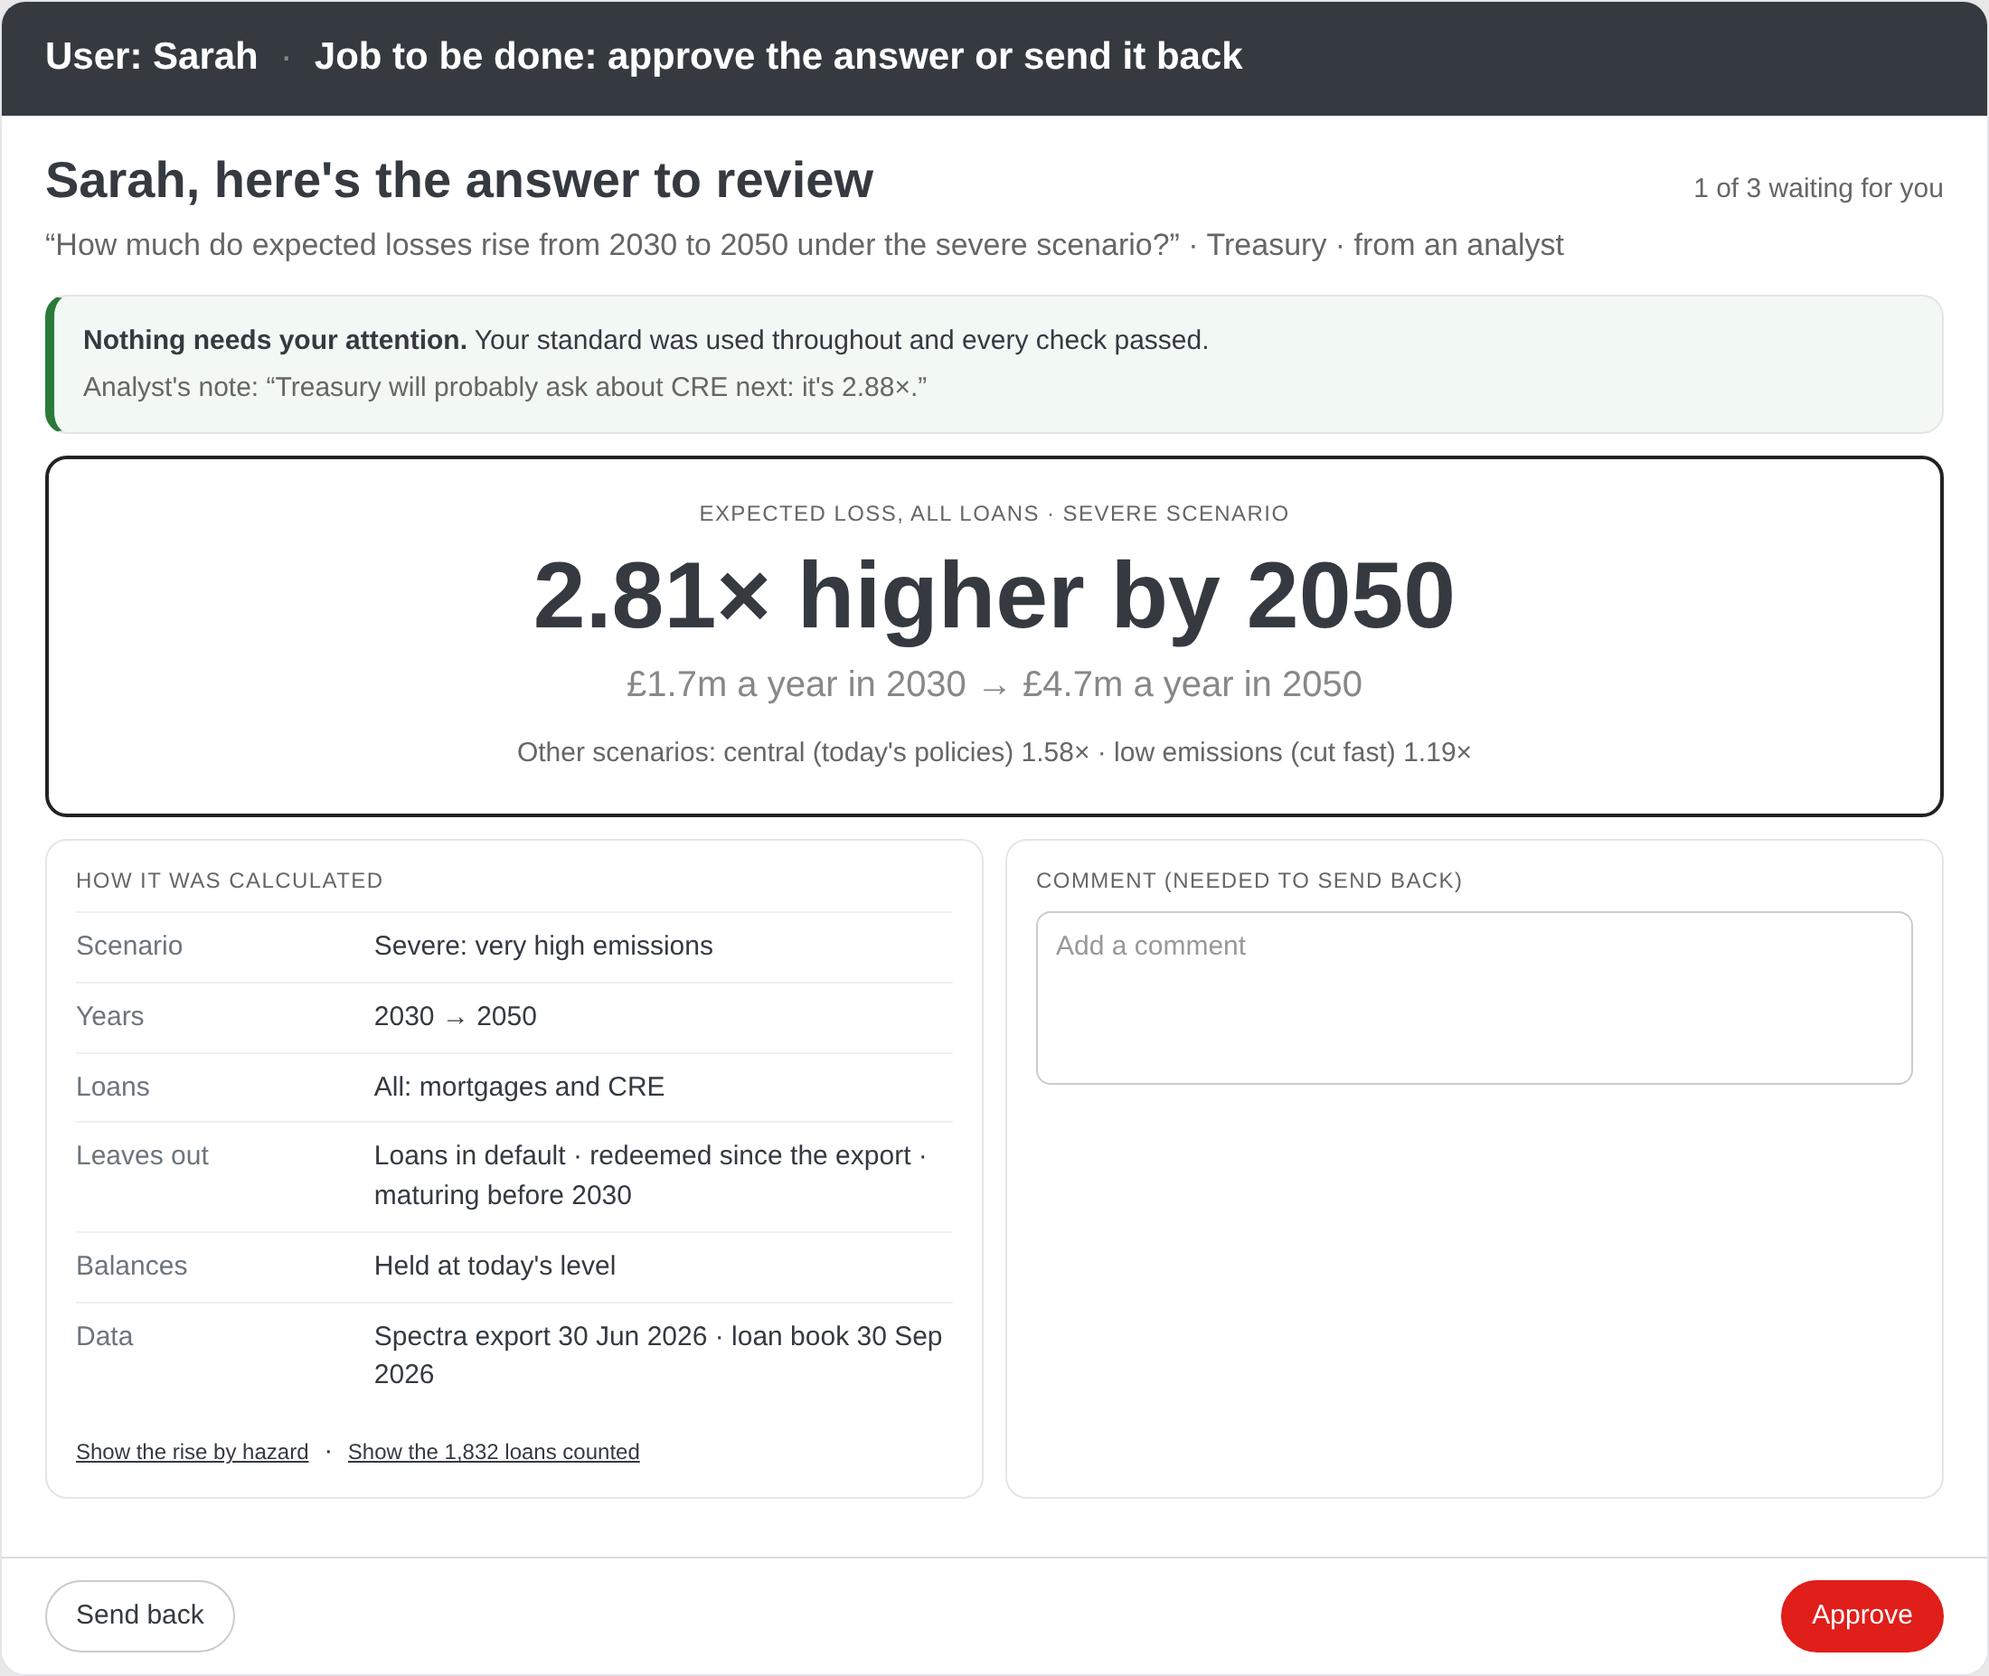
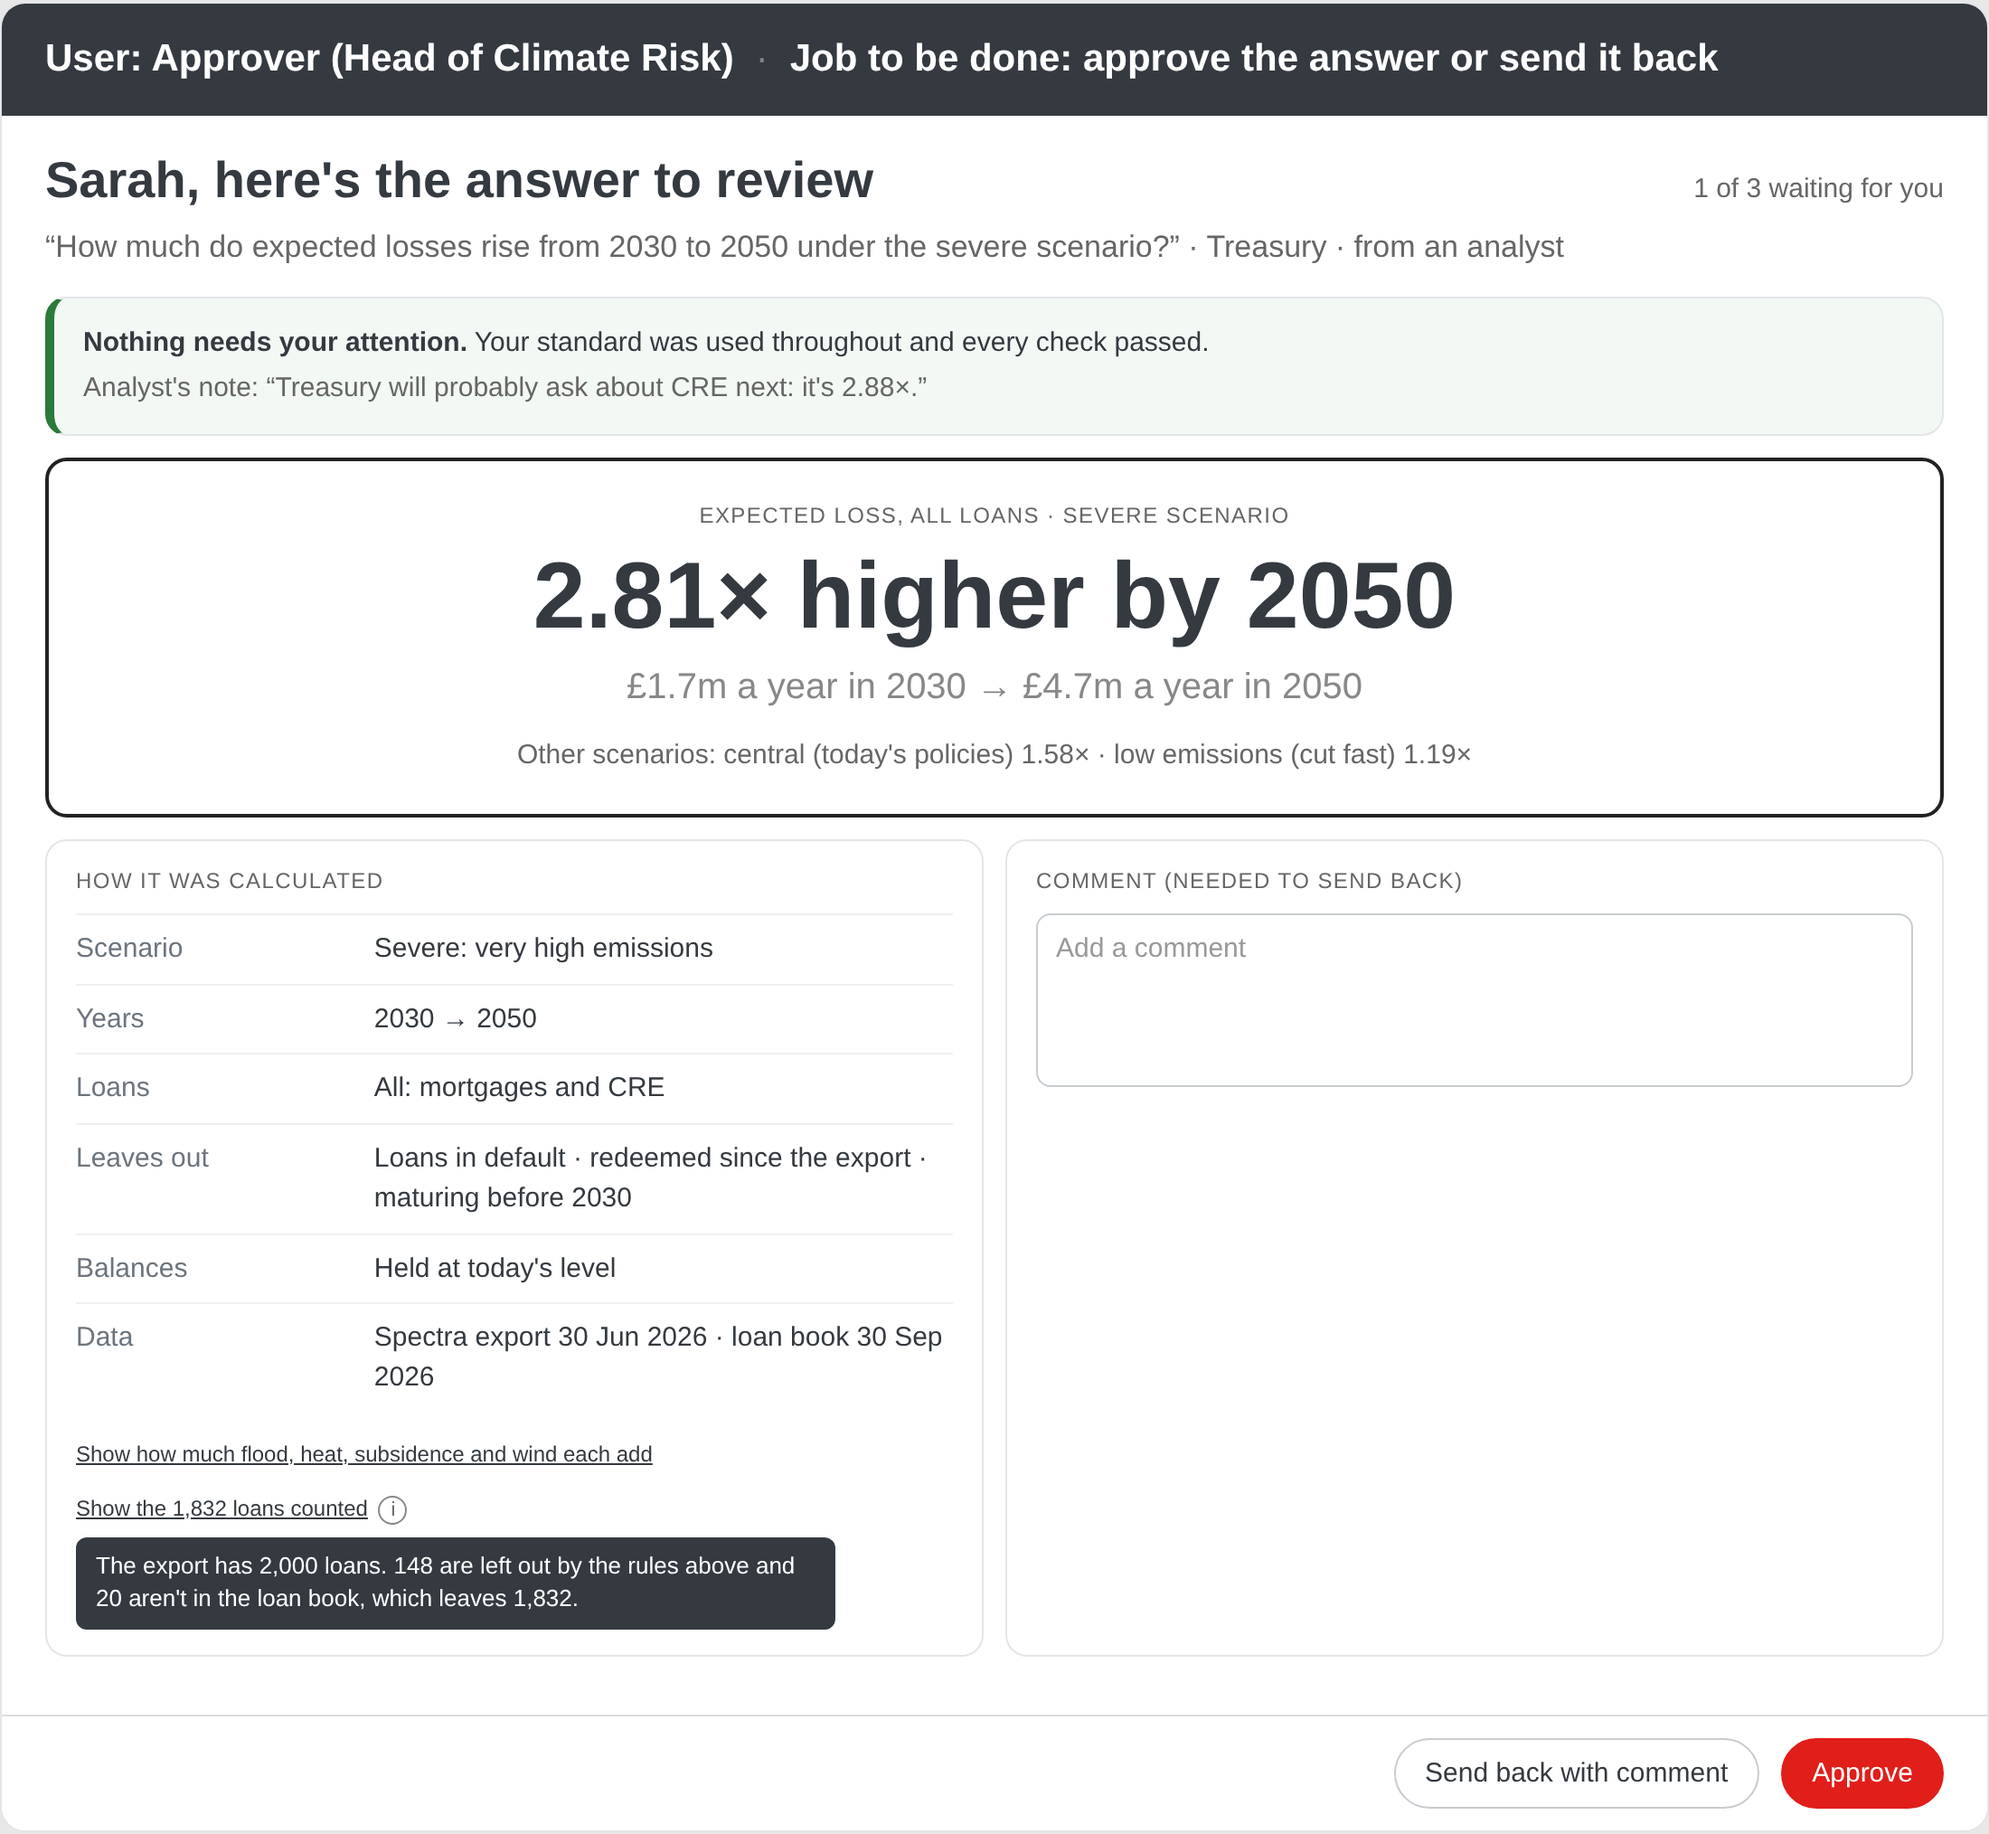
Run 1 screens: roles not names, hover explanations, clearer links, send back beside approve
Claude-Session: https://claude.ai/code/session_016JoguXTxkWcj5knaYbAtMZ

diff --git a/runs/run-1/design/solution-design.html b/runs/run-1/design/solution-design.html
@@ -62,15 +62,16 @@ body{font-family:Graphik,Helvetica,Arial,sans-serif;color:#343a40}
 .src{color:#343a40}
 .input{border-color:#c8ccd0;border-radius:8px}
 .kv{width:100%;border-collapse:collapse}.kv td{padding:8px 0;border-top:1px solid #eef0f2;vertical-align:top}.kv td:first-child{color:#6c757d;width:34%}
+.tip{display:block;background:#343a40;color:#fff;font-size:13px;line-height:1.4;padding:7px 11px;border-radius:6px;margin-top:6px;max-width:420px}.i{display:inline-block;width:16px;height:16px;border-radius:50%;border:1px solid #888;font-size:11px;text-align:center;line-height:15px;color:#666;margin-left:6px}
 </style></head><body>
 
 <div class="screen" id="draft">
-<div class="hdr2">User: Analyst<span class="sep">·</span>Job to be done: turn the question into an answer Sarah can approve</div>
+<div class="hdr2">User: Analyst<span class="sep">·</span>Job to be done: turn the question into an answer ready for approval</div>
 <div class="steps"><span class="on">Draft</span> ─ Review ─ Send</div>
 <div class="body"><h1>Draft</h1>
 <div class="card">
  <div class="row"><div class="k">Question</div><div class="input" style="grid-column:2/4">How much do <span class="hl">expected losses rise from 2030 to 2050</span> under the <span class="hl">severe scenario</span>?</div></div>
- <div class="row"><div class="k">Asked by</div><div class="input">Treasury ▾</div><div class="sub" style="font-size:13px">The reply goes here</div></div>
+ <div class="row"><div class="k">Asked by</div><div class="input">Treasury ▾</div><div></div></div>
  <div class="row"><div class="k">Data</div><div style="grid-column:2/4">Spectra export, 30 Jun 2026 <span class="src" style="margin:0 18px 0 6px">Refresh</span> Loan book, 30 Sep 2026 <span class="src" style="margin-left:6px">Upload new</span></div></div>
 </div>
 <div class="card out">
@@ -87,8 +88,8 @@ body{font-family:Graphik,Helvetica,Arial,sans-serif;color:#343a40}
  <div class="card">
   <div class="ctl"><div class="k">Loans</div><div><span class="seg"><span class="on">All</span><span>Mortgages · 2.70×</span><span>CRE · 2.88×</span></span></div></div>
   <div class="ctl"><div class="k">Years</div><div>2030 → 2050<span class="src2">From the question</span></div></div>
-  <div class="ctl"><div class="k">Excludes</div><div><span class="chip">Loans in default<i>×</i></span><span class="chip">Redeemed since the export<i>×</i></span><span class="chip">Maturing before 2030<i>×</i></span><br><span class="input" style="display:inline-block;margin-top:8px;padding:5px 10px;color:#999;min-width:300px">+ Add exclusion</span><span class="src2">Sarah's standard</span></div></div>
-  <div class="ctl"><div class="k">Balances</div><div>Held at today's level <span class="src" style="margin-left:6px">Change</span><span class="src2">Sarah's standard</span></div></div>
+  <div class="ctl"><div class="k">Excludes</div><div><span class="chip">Loans in default<i>×</i></span><span class="chip">Redeemed since the export<i>×</i></span><span class="chip">Maturing before 2030<i>×</i></span><br><span class="input" style="display:inline-block;margin-top:8px;padding:5px 10px;color:#999;min-width:300px">+ Add exclusion</span><span class="src2">Default</span></div></div>
+  <div class="ctl"><div class="k">Balances</div><div>Held at today's level<span class="i">i</span> <span class="src" style="margin-left:6px">Change</span><span class="src2">Default</span><span class="tip">Each loan keeps today's balance in every year. We don't assume loans are paid down or new ones are added by 2050.</span></div></div>
  </div>
  <div class="card"><div class="lbl">Where the rise comes from · severe</div><table>
   <tr><th>Hazard</th><th style="text-align:right">2030</th><th style="text-align:right">2050</th><th style="text-align:right">Rise</th></tr>
@@ -100,11 +101,11 @@ body{font-family:Graphik,Helvetica,Arial,sans-serif;color:#343a40}
   <div><span class="src">20 loans</span> are in the Spectra export but not in the loan book.</div>
   <div><span class="src">40 loans</span> have no rating for one hazard and year.</div></div>
 </div>
-<div class="card"><div class="lbl">Note to Sarah (optional)</div><div class="input" style="color:#999">Add a note</div></div>
+<div class="card"><div class="lbl">Note to the approver (optional)</div><div class="input" style="color:#999">Add a note</div></div>
 </div>
-<div class="foot"><span class="btn">Cancel</span><span class="btn p">Send draft to Sarah →</span></div></div>
+<div class="foot"><span class="btn">Cancel</span><span class="btn p">Send for approval →</span></div></div>
 <div class="screen" id="review">
-<div class="hdr2">User: Sarah<span class="sep">·</span>Job to be done: approve the answer or send it back</div>
+<div class="hdr2">User: Approver (Head of Climate Risk)<span class="sep">·</span>Job to be done: approve the answer or send it back</div>
 <div class="body" style="background:#fff">
 <div style="display:flex;justify-content:space-between;align-items:baseline"><div style="font-size:28px;font-weight:700;margin:6px 0 4px">Sarah, here's the answer to review</div><div class="sub">1 of 3 waiting for you</div></div>
 <div class="q" style="font-size:17px">“How much do expected losses rise from 2030 to 2050 under the severe scenario?” · Treasury · from an analyst</div>
@@ -123,10 +124,11 @@ body{font-family:Graphik,Helvetica,Arial,sans-serif;color:#343a40}
   <tr><td>Leaves out</td><td>Loans in default · redeemed since the export · maturing before 2030</td></tr>
   <tr><td>Balances</td><td>Held at today's level</td></tr>
   <tr><td>Data</td><td>Spectra export 30 Jun 2026 · loan book 30 Sep 2026</td></tr></table>
-  <div style="margin-top:12px"><span class="src">Show the rise by hazard</span> &nbsp;·&nbsp; <span class="src">Show the 1,832 loans counted</span></div></div>
+  <div style="margin-top:12px"><span class="src">Show how much flood, heat, subsidence and wind each add</span></div>
+  <div style="margin-top:8px"><span class="src">Show the 1,832 loans counted</span><span class="i">i</span><span class="tip">The export has 2,000 loans. 148 are left out by the rules above and 20 aren't in the loan book, which leaves 1,832.</span></div></div>
  <div class="card"><div class="lbl">Comment (needed to send back)</div><div class="input" style="color:#999;min-height:96px">Add a comment</div></div>
 </div></div>
-<div class="foot"><span class="btn">Send back</span><span class="btn p">Approve</span></div></div>
+<div class="foot"><span></span><span><span class="btn">Send back with comment</span> &nbsp; <span class="btn p">Approve</span></span></div></div>
 <div class="screen" id="send">
 <div class="hdr2">User: Analyst<span class="sep">·</span>Job to be done: send the approved answer to whoever asked</div>
 <div class="steps">Draft ─ Review ─ <span class="on">Send</span></div>
